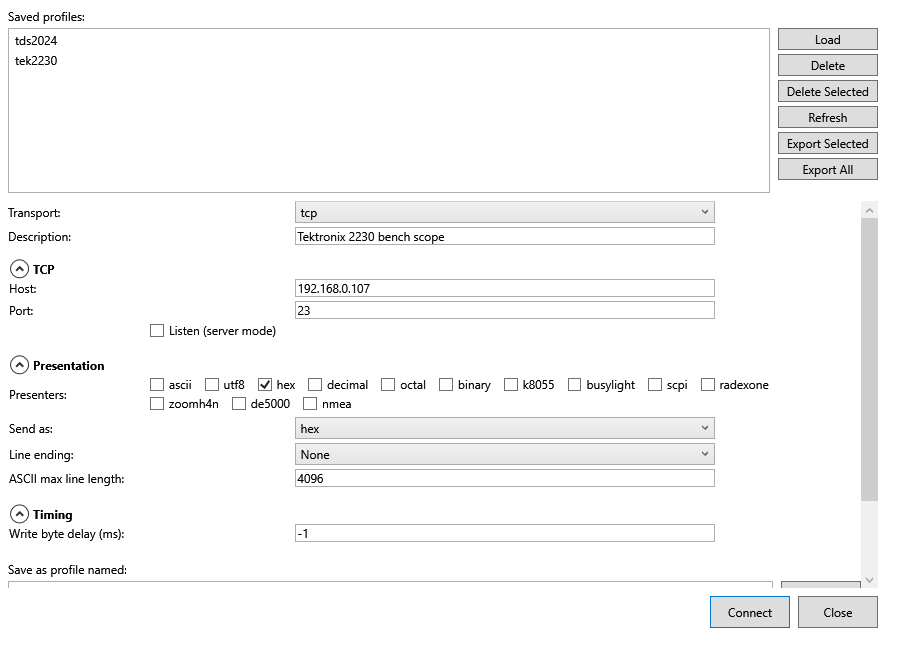
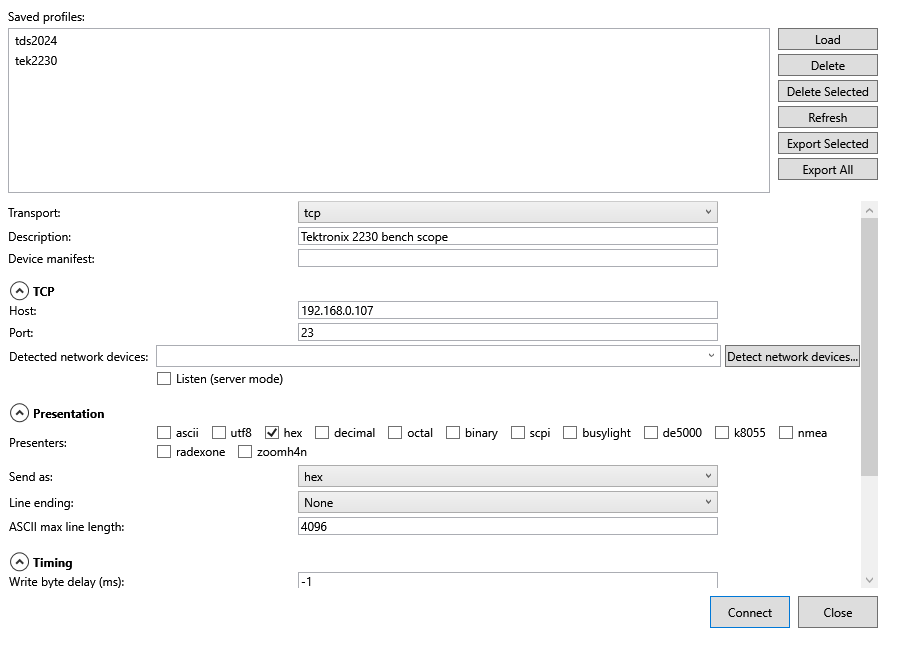
Connection Editor: Detect network devices runs every discovery probe

diff --git a/src/DevTerm.Console/ConfigureMode.cs b/src/DevTerm.Console/ConfigureMode.cs
@@ -154,7 +154,7 @@ public static class ConfigureMode
         var detectHidButton = new Button { Text = "Detect HID...", ShadowStyle = ShadowStyles.None };
         var detectUsbtmcButton = new Button { Text = "Detect USBTMC...", ShadowStyle = ShadowStyles.None };
         var detectBleButton = new Button { Text = "Detect BLE...", ShadowStyle = ShadowStyles.None };
-        var detectLxiButton = new Button { Text = "Detect LXI...", ShadowStyle = ShadowStyles.None };
+        var detectLxiButton = new Button { Text = "Detect network devices...", ShadowStyle = ShadowStyles.None };
         var detectBleCharacteristicsButton = new Button { Text = "Detect characteristics...", ShadowStyle = ShadowStyles.None };
         var pickBleNotifyCharacteristicButton = new Button { Text = "Pick...", ShadowStyle = ShadowStyles.None };
         var formOptions = new TuiFormOptions { CollapsibleSections = true };
@@ -478,9 +478,9 @@ public static class ConfigureMode
         // An LXI scan is a live network broadcast (about three seconds), so like BLE it runs when the button is pressed.
         detectLxiButton.Accepting += (_, e) =>
         {
-            viewModel.SetLxiDeviceOptions(LxiDeviceScanner.Scan());
+            viewModel.SetLxiDeviceOptions(LxiDeviceScanner.ScanNetwork());
             var devices = viewModel.LxiDeviceOptions;
-            if (FormRenderer.PickFromList(app, "Detected LXI instruments", [.. devices.Select(d => d.Display)], "Nothing was detected.") is int i)
+            if (FormRenderer.PickFromList(app, "Detected network devices", [.. devices.Select(d => d.Display)], "Nothing was detected.") is int i)
             {
                 viewModel.SelectedLxiDevice = devices[i];
             }

diff --git a/src/DevTerm.Wpf/DeviceProfilesWindow.xaml.cs b/src/DevTerm.Wpf/DeviceProfilesWindow.xaml.cs
@@ -128,7 +128,7 @@ public partial class DeviceProfilesWindow : Window
         DetectedLxiDevicesBox.SetBinding(ItemsControl.ItemsSourceProperty, new Binding(nameof(ConnectionEditorViewModel.LxiDeviceOptions)));
         DetectedLxiDevicesBox.SetBinding(Selector.SelectedItemProperty, new Binding(nameof(ConnectionEditorViewModel.SelectedLxiDevice)));
         MakeFilterable(DetectedLxiDevicesBox, nameof(LxiDeviceOption.Display));
-        DetectLxiButton = new Button { Content = "Detect LXI...", Margin = new Thickness(4, 0, 0, 0) };
+        DetectLxiButton = new Button { Content = "Detect network devices...", Margin = new Thickness(4, 0, 0, 0) };
         DetectLxiButton.Click += DetectLxi_Click;
         var lxiRow = new DockPanel();
         DockPanel.SetDock(DetectLxiButton, Dock.Right);
@@ -316,7 +316,7 @@ public partial class DeviceProfilesWindow : Window
         DetectLxiButton.IsEnabled = false;
         try
         {
-            var devices = await Task.Run(LxiDeviceScanner.Scan);
+            var devices = await Task.Run(LxiDeviceScanner.ScanNetwork);
             ViewModel.SetLxiDeviceOptions(devices);
         }
         finally

diff --git a/tests/DevTerm.Configuration.Tests/ConnectionEditorFormTests.cs b/tests/DevTerm.Configuration.Tests/ConnectionEditorFormTests.cs
@@ -53,7 +53,7 @@ public sealed class ConnectionEditorFormTests
             Assert.AreSequenceEqual(
                 ["Port", "Detected ports", "", "Baud", "Data bits", "Parity", "Stop bits", "Handshake", "DTR", "RTS", "Write timeout (ms)", "Read timeout (ms)"],
                 [.. definition.Sections[1].Controls.Select(c => c.Label)]);
-            Assert.AreSequenceEqual(["Host", "Port", "Detected LXI instruments", "Listen (server mode)"], [.. definition.Sections[2].Controls.Select(c => c.Label)]);
+            Assert.AreSequenceEqual(["Host", "Port", "Detected network devices", "Listen (server mode)"], [.. definition.Sections[2].Controls.Select(c => c.Label)]);
             Assert.AreSequenceEqual(
                 ["Vendor ID", "Product ID", "Serial number", "Show as hex", "Detected HID devices", "Detected USBTMC devices", ""],
                 [.. definition.Sections[3].Controls.Select(c => c.Label)]);

diff --git a/src/DevTerm.Configuration/LxiDeviceScanner.cs b/src/DevTerm.Configuration/LxiDeviceScanner.cs
@@ -1,3 +1,4 @@
+using DevTerm.Configuration.Discovery;
 using DevTerm.Transports.Tcp;
 
 namespace DevTerm.Configuration;
@@ -10,4 +11,8 @@ public static class LxiDeviceScanner
 {
     public static IReadOnlyList<LxiDeviceOption> Scan() =>
         [.. LxiDiscovery.ScanAsync(TimeSpan.FromSeconds(2), TimeSpan.FromSeconds(1)).GetAwaiter().GetResult().Select(LxiDeviceOption.FromDevice)];
+
+    /// <summary>Every discovery probe (LXI, mDNS, SSDP), for the Connection Editor's "Detect network devices..." picker.</summary>
+    public static IReadOnlyList<LxiDeviceOption> ScanNetwork() =>
+        [.. NetworkDiscovery.CreateDefault().DiscoverAsync(TimeSpan.FromSeconds(3)).GetAwaiter().GetResult().Select(LxiDeviceOption.FromHit)];
 }

diff --git a/src/DevTerm.Configuration/LxiDeviceOption.cs b/src/DevTerm.Configuration/LxiDeviceOption.cs
@@ -8,6 +8,10 @@ namespace DevTerm.Configuration;
 /// </summary>
 public sealed record LxiDeviceOption(string Display, string Host, int Port)
 {
+    /// <summary>A hit from any probe; only a plain <c>tcp</c> hit carries a usable port, a VXI-11-only one falls back to 5025 like before.</summary>
+    public static LxiDeviceOption FromHit(Discovery.NetworkDeviceHit hit) =>
+        new(hit.Display, hit.Address, hit.Transport == "tcp" ? hit.Port : 5025);
+
     public static LxiDeviceOption FromDevice(LxiDevice device) =>
         new(device.Display, device.Host, device.ScpiPort > 0 ? device.ScpiPort : 5025);
 }

diff --git a/src/DevTerm.Configuration/ConnectionEditorViewModel.cs b/src/DevTerm.Configuration/ConnectionEditorViewModel.cs
@@ -991,7 +991,7 @@ public sealed class ConnectionEditorViewModel : INotifyPropertyChanged, IDisposa
     /// <see cref="TcpPort"/>. A front end must call <see cref="SetLxiDeviceOptions"/> first, since the scan takes seconds.
     /// </summary>
     [Category("TCP")]
-    [DisplayName("Detected LXI instruments")]
+    [DisplayName("Detected network devices")]
     [FormField(Order = 1, Kind = FormFieldKind.Choice, VisibleWhen = nameof(IsTcpTransport))]
     public LxiDeviceOption? SelectedLxiDevice
     {

diff --git a/docs/specs/connection-editor.md b/docs/specs/connection-editor.md
@@ -62,7 +62,7 @@ Shown in two situations:
 | Host (tcp) | free text | empty | Required when Transport is `tcp` and Listen is off | Accepts a hostname, IPv4, or IPv6 literal — passed through as-is to `TcpTransport`/`.NET`'s own connect/resolve, not restricted to one format |
 | Port (tcp) | integer, typed as text | `0` | Required, 1–65535, when Transport is `tcp` (declared `Integer` 0–65535 for the inline message) | |
 | Listen (tcp) | boolean | off | none | Server mode; when on, Host is not required |
-| Detected LXI instruments (tcp) | picked from a "Detect LXI..." list, via `SelectedLxiDevice` | empty | none | Runs a LAN scan (about three seconds: a VXI-11 portmapper broadcast, then `*IDN?` on raw ports 5025/5555) when the button is pressed, nothing at construction. Picking a row fills Host and the TCP Port (5025 when no raw SCPI port answered). WPF scans off the UI thread; the TUI blocks for the scan like its BLE button. CLI equivalent: `--listlxidevices true` |
+| Detected network devices (tcp) | picked from a "Detect network devices..." list, via `SelectedLxiDevice` | empty | none | Runs every discovery probe (LXI: a VXI-11 portmapper broadcast then `*IDN?` on raw ports 5025/5555; mDNS/DNS-SD; SSDP) when the button is pressed, nothing at construction, about three seconds; hits are merged by address, port and transport. Picking a row fills Host and the TCP Port (5025 for a VXI-11-only LXI hit). WPF scans off the UI thread; the TUI blocks for the scan like its BLE button. CLI equivalents: `--listnetworkdevices true` (all probes), `--listlxidevices true` (LXI only) |
 | Write byte delay (ms) (serial, tcp, rfc2217) | integer, typed as text | `-1` | Declared `Integer`, at least -1 (same inline-message behavior as Baud) | Lives in its own "Timing" section, shown only for the three byte-stream transports (`SupportsWriteByteDelay`) — see States. `-1` disables pacing (an unpaced write, as before); `0` writes and flushes one byte at a time with no delay; a positive value adds that many milliseconds of delay between bytes (never after the last one). See [`docs/design/transports.md`](../design/transports.md)'s "Write pacing" section |
 | Vendor ID (hid, usbtmc) | integer, typed as decimal or 4-digit hex (per "Show as hex"), or picked (with Product ID together) from a "Detected devices"/"Detect..." list | `0` | Required, 1–65535, when Transport is `hid` or `usbtmc` | **Shared by both USB-device transports** — one field, one value, regardless of which is selected — since both identify a device the same way; only the detected-devices picker differs (see below). Stored/validated as decimal internally regardless of display format — see `ConnectionEditorViewModel.VendorIdDisplay`; the picker list is whatever `IHidDeviceDiscovery.GetDevices()`/`IUsbtmcDeviceDiscovery.GetDevices()` (the same enumeration `--listhiddevices`/`--listusbtmcdevices` uses) finds attached right now, formatted `"{VID:X4}:{PID:X4}  {ProductName}"`. The picker is **filtered by the Vendor/Product ID fields**: a non-zero id keeps only devices with that id, `0` means any (see Per-front-end notes) |
 | Product ID (hid, usbtmc) | integer, typed as decimal or 4-digit hex, or picked together with Vendor ID (see above) | `0` | Required, 1–65535, when Transport is `hid` or `usbtmc` | Same as Vendor ID — shared field |

diff --git a/docs/user-guide/connecting.md b/docs/user-guide/connecting.md
@@ -284,18 +284,30 @@ How to press it:
 Either way, if you've changed a field without saving or connecting, Quit/Close asks before throwing the
 changes away.
 
-### Finding a LAN instrument (LXI)
+### Finding a LAN device (LXI, mDNS, SSDP)
 
-For an instrument on the network, choose the `tcp` transport and press **Detect LXI...** (a dropdown plus button in WPF, a
-button opening a list in the TUI). The scan takes about three seconds and lists each instrument that answered, with its
-`*IDN?` and raw SCPI port; picking one fills Host and Port. From a script:
+For a device on the network, choose the `tcp` transport and press **Detect network devices...** (a dropdown plus button in WPF, a
+button opening a list in the TUI). The scan takes about three seconds and runs three probes at once: the LXI instrument
+scan (with its `*IDN?` and raw SCPI port), mDNS service discovery and SSDP/UPnP. Each device appears once; picking one fills
+Host and Port. The mDNS and SSDP probes have only been tried against what happens to be on one home LAN (printers, a NAS);
+an LXI unit such as the DG1062Z answers the LXI probe only. From a script, `--listlxidevices true` lists just the LXI
+instruments and `--listnetworkdevices true` lists everything:
 
 ```
 > dotnet run --project src/DevTerm.Console -- --listlxidevices true
 192.168.0.87:5555  Rigol Technologies,DG1062Z,DG1ZA232603118,03.01.12  (192.168.0.87:5555)
 ```
 
-(Real output from the bench Rigol DG1062Z.) An instrument that only speaks VXI-11, with no raw SCPI port on 5025 or 5555,
+```
+> dotnet run --project src/DevTerm.Console -- --listnetworkdevices true
+192.168.0.48:80  tcp  Brother HL-3170CDW series  (unknown, mdns)
+192.168.0.127:5555  tcp  Rigol Technologies,DG1062Z,DG1ZA232603118,03.01.12  (lxi, lxi)
+```
+
+(Real output from the bench LAN; the DG1062Z moved from .87 to .127 between captures. mDNS answers are not guaranteed: a
+NAS that appeared in one run was absent from this one, so a missing device means "try again", not "not there".)
+
+(Real output from the bench Rigol DG1062Z for the first capture.) An instrument that only speaks VXI-11, with no raw SCPI port on 5025 or 5555,
 is listed as "VXI-11 only" and falls back to port 5025, which will not work for it; connect with `--transport vxi11 --host <ip>` instead (the portmapper finds the port, no `--port` needed). The same works for the DG1062Z: `--transport vxi11 --host 192.168.0.87 --presenter ascii --lineending Lf --cli true`, then `*IDN?`.
 
 ### Picking a detected serial port, HID device, or USBTMC device

diff --git a/docs/changes/2026-10-08.md b/docs/changes/2026-10-08.md
@@ -29,3 +29,5 @@ Interview answers recorded (2026-10-08): build network discovery probes and the 
 Bench check of the DG1062Z over LXI/VXI-11 (now at 192.168.0.127): see `docs/test/2026-10-08-12-39-27.md`. The real-hardware VXI-11 test now finds the unit by LXI discovery instead of a hardcoded IP.
 
 Network discovery, first part: `DevTerm.Configuration.Discovery` has `INetworkDeviceProbe`/`NetworkDeviceHit`, an LXI probe wrapping `LxiDiscovery`, a hand-rolled DNS reader plus mDNS/DNS-SD probe, an SSDP probe, and `NetworkDiscovery` (runs probes in parallel, a failing probe is dropped, merges by address/port/transport). `--listnetworkdevices true` prints the merged list. Unit tests use canned replies (`NetworkDiscoveryTests`, 7). Run on the real LAN it found a printer and a NAS over mDNS and the DG1062Z over LXI; the DG1062Z answers neither mDNS nor SSDP, and SSDP found nothing. The mDNS and SSDP probes are not otherwise hardware-verified. The Connection Editor button (replacing "Detect LXI...") is still to do.
+
+Connection Editor: the TCP "Detect LXI..." button is now "Detect network devices..." (WPF and TUI), running all probes and merging by address; it still fills Host and Port only. `--listlxidevices` stays LXI-only. Spec, user guide (with a real `--listnetworkdevices` capture) and the tcp screenshots updated. Console, WPF and Configuration test projects pass.

diff --git a/docs/design/proposals/network-device-discovery.md b/docs/design/proposals/network-device-discovery.md
@@ -86,7 +86,7 @@ UI -> UI : prefill Transport/Host/Port/baud/profile
 - [ ] EByte UDP probe (needs a fresh capture first)
 - [ ] USR search probe (needs a capture first)
 - [x] `--listnetworkdevices true` in the CLI (2026-10-08)
-- [ ] Connection Editor: "Detect network devices..." in WPF and TUI with prefill
+- [x] Connection Editor: "Detect network devices..." in WPF and TUI (2026-10-08); it fills Host and Port only, the transport stays `tcp`, so the richer per-kind prefill (vxi11 transport, USR/EByte settings) is still open
 - [ ] Spec (`docs/specs/connection-editor.md`) and user guide updated with real captures
 
 ## Status
